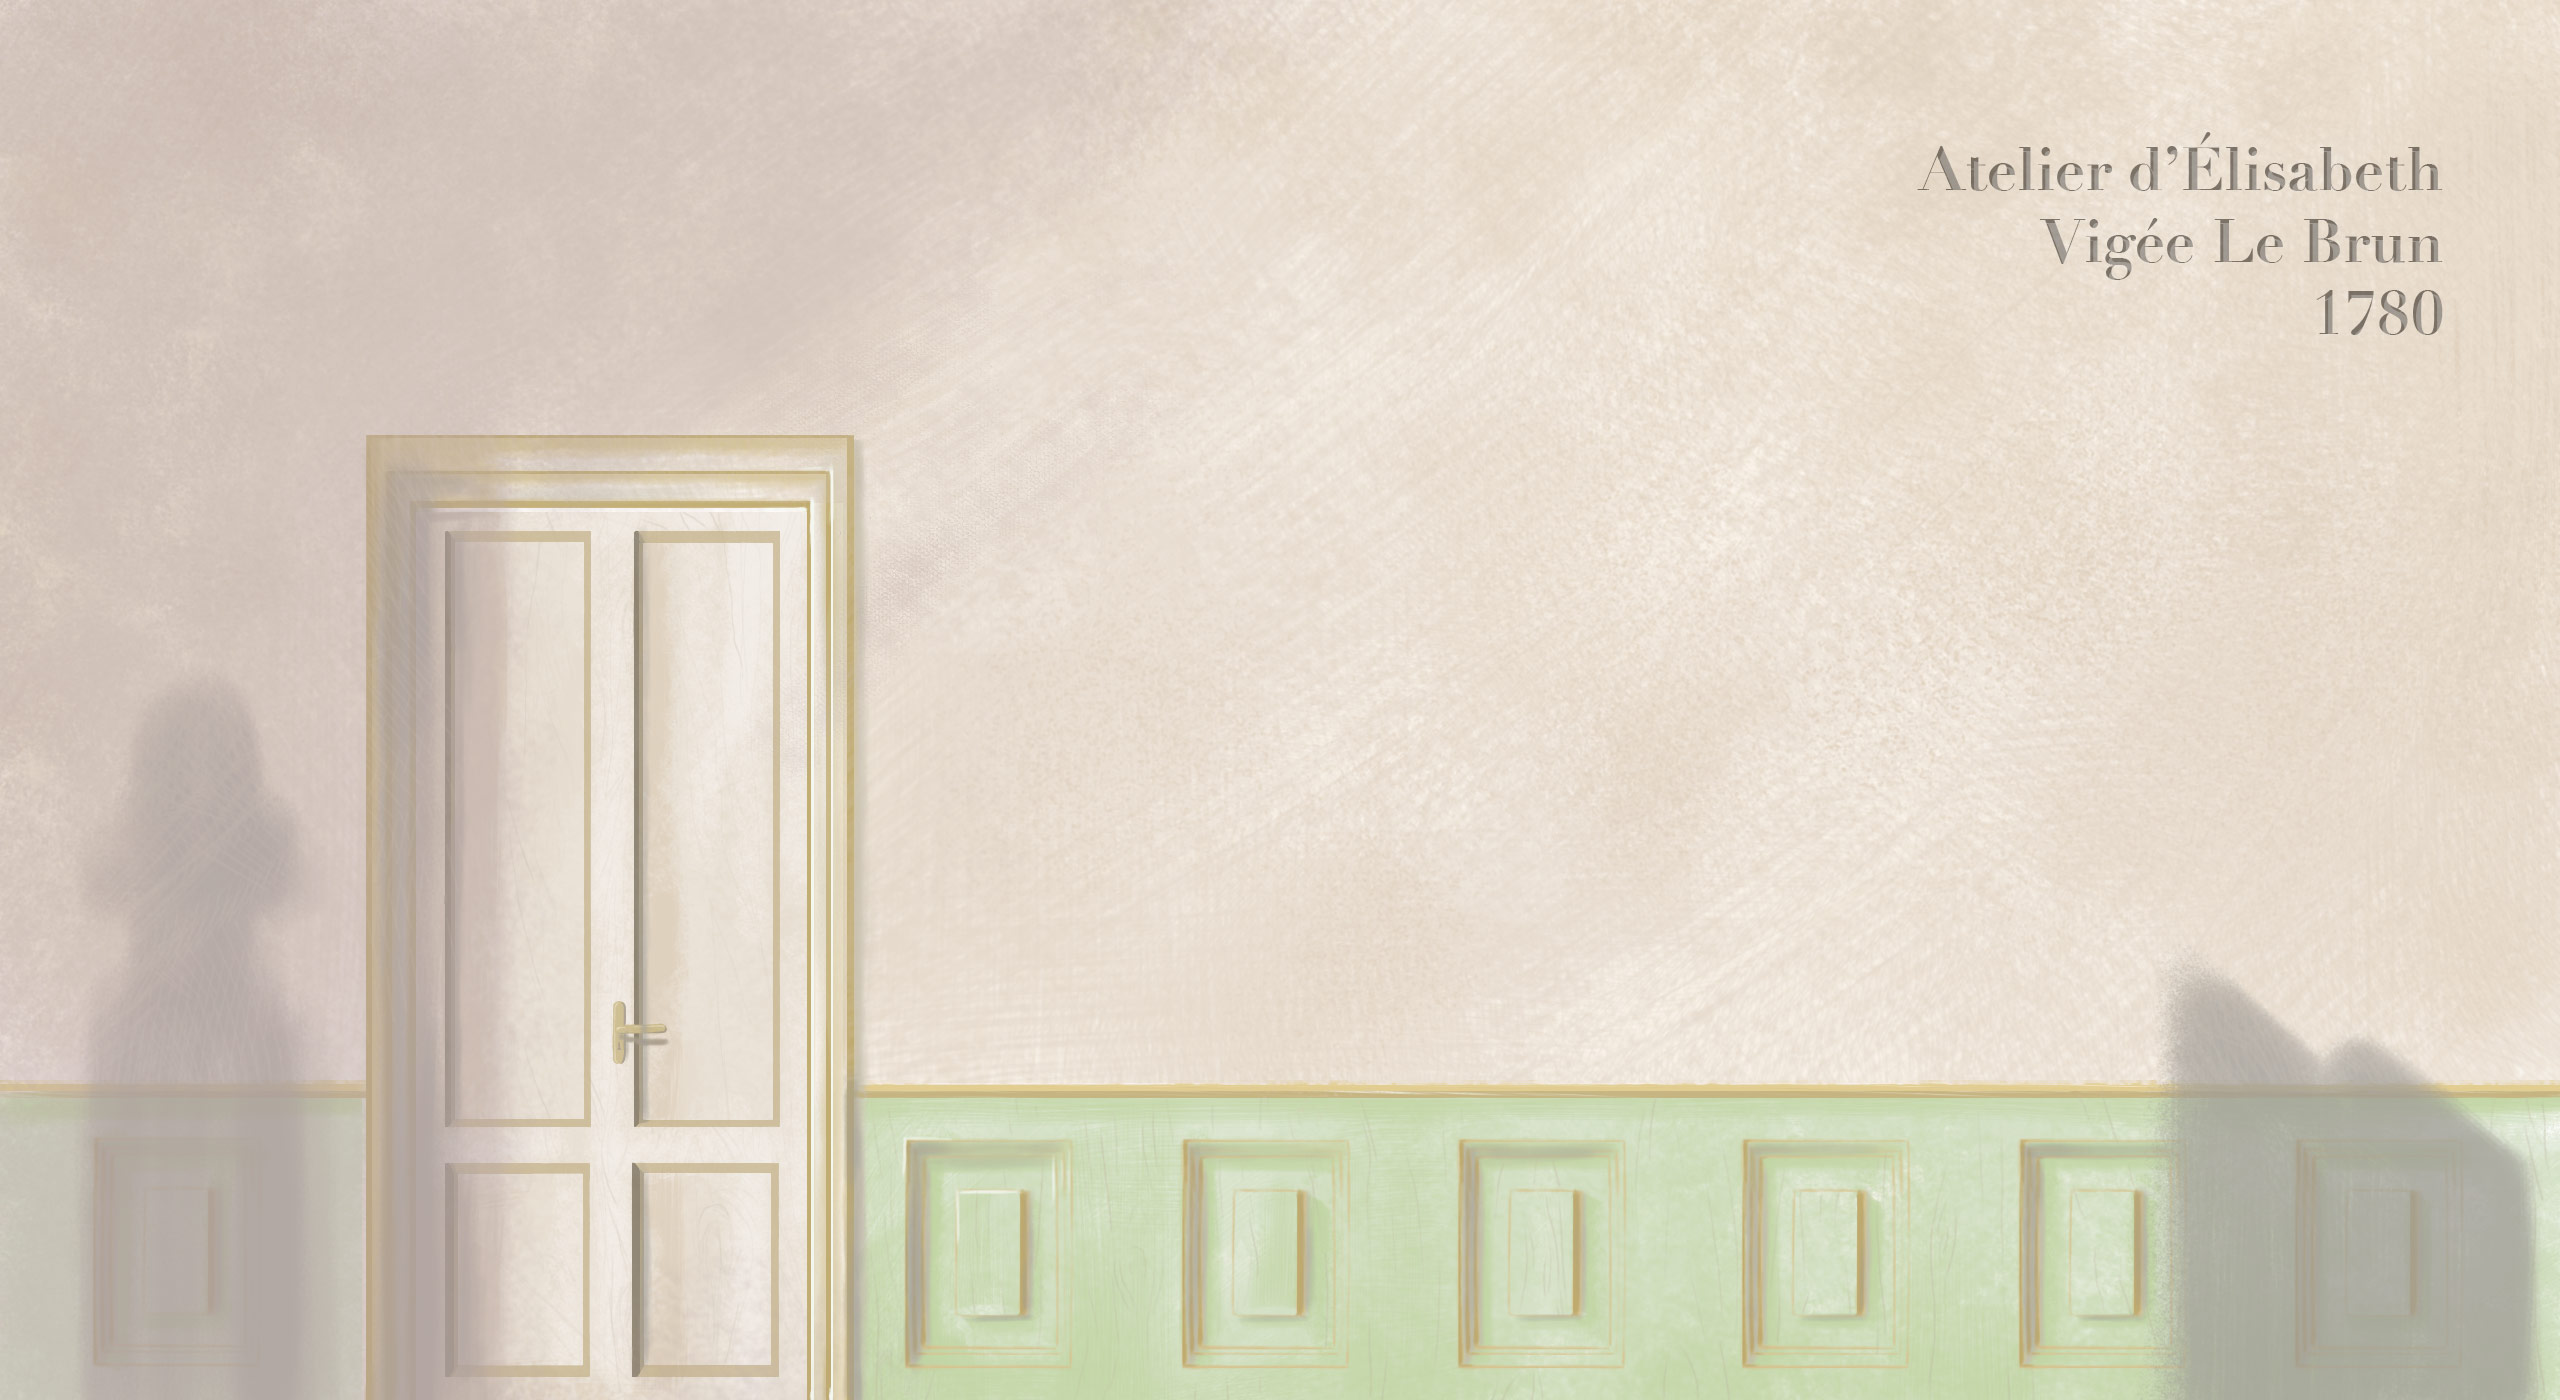
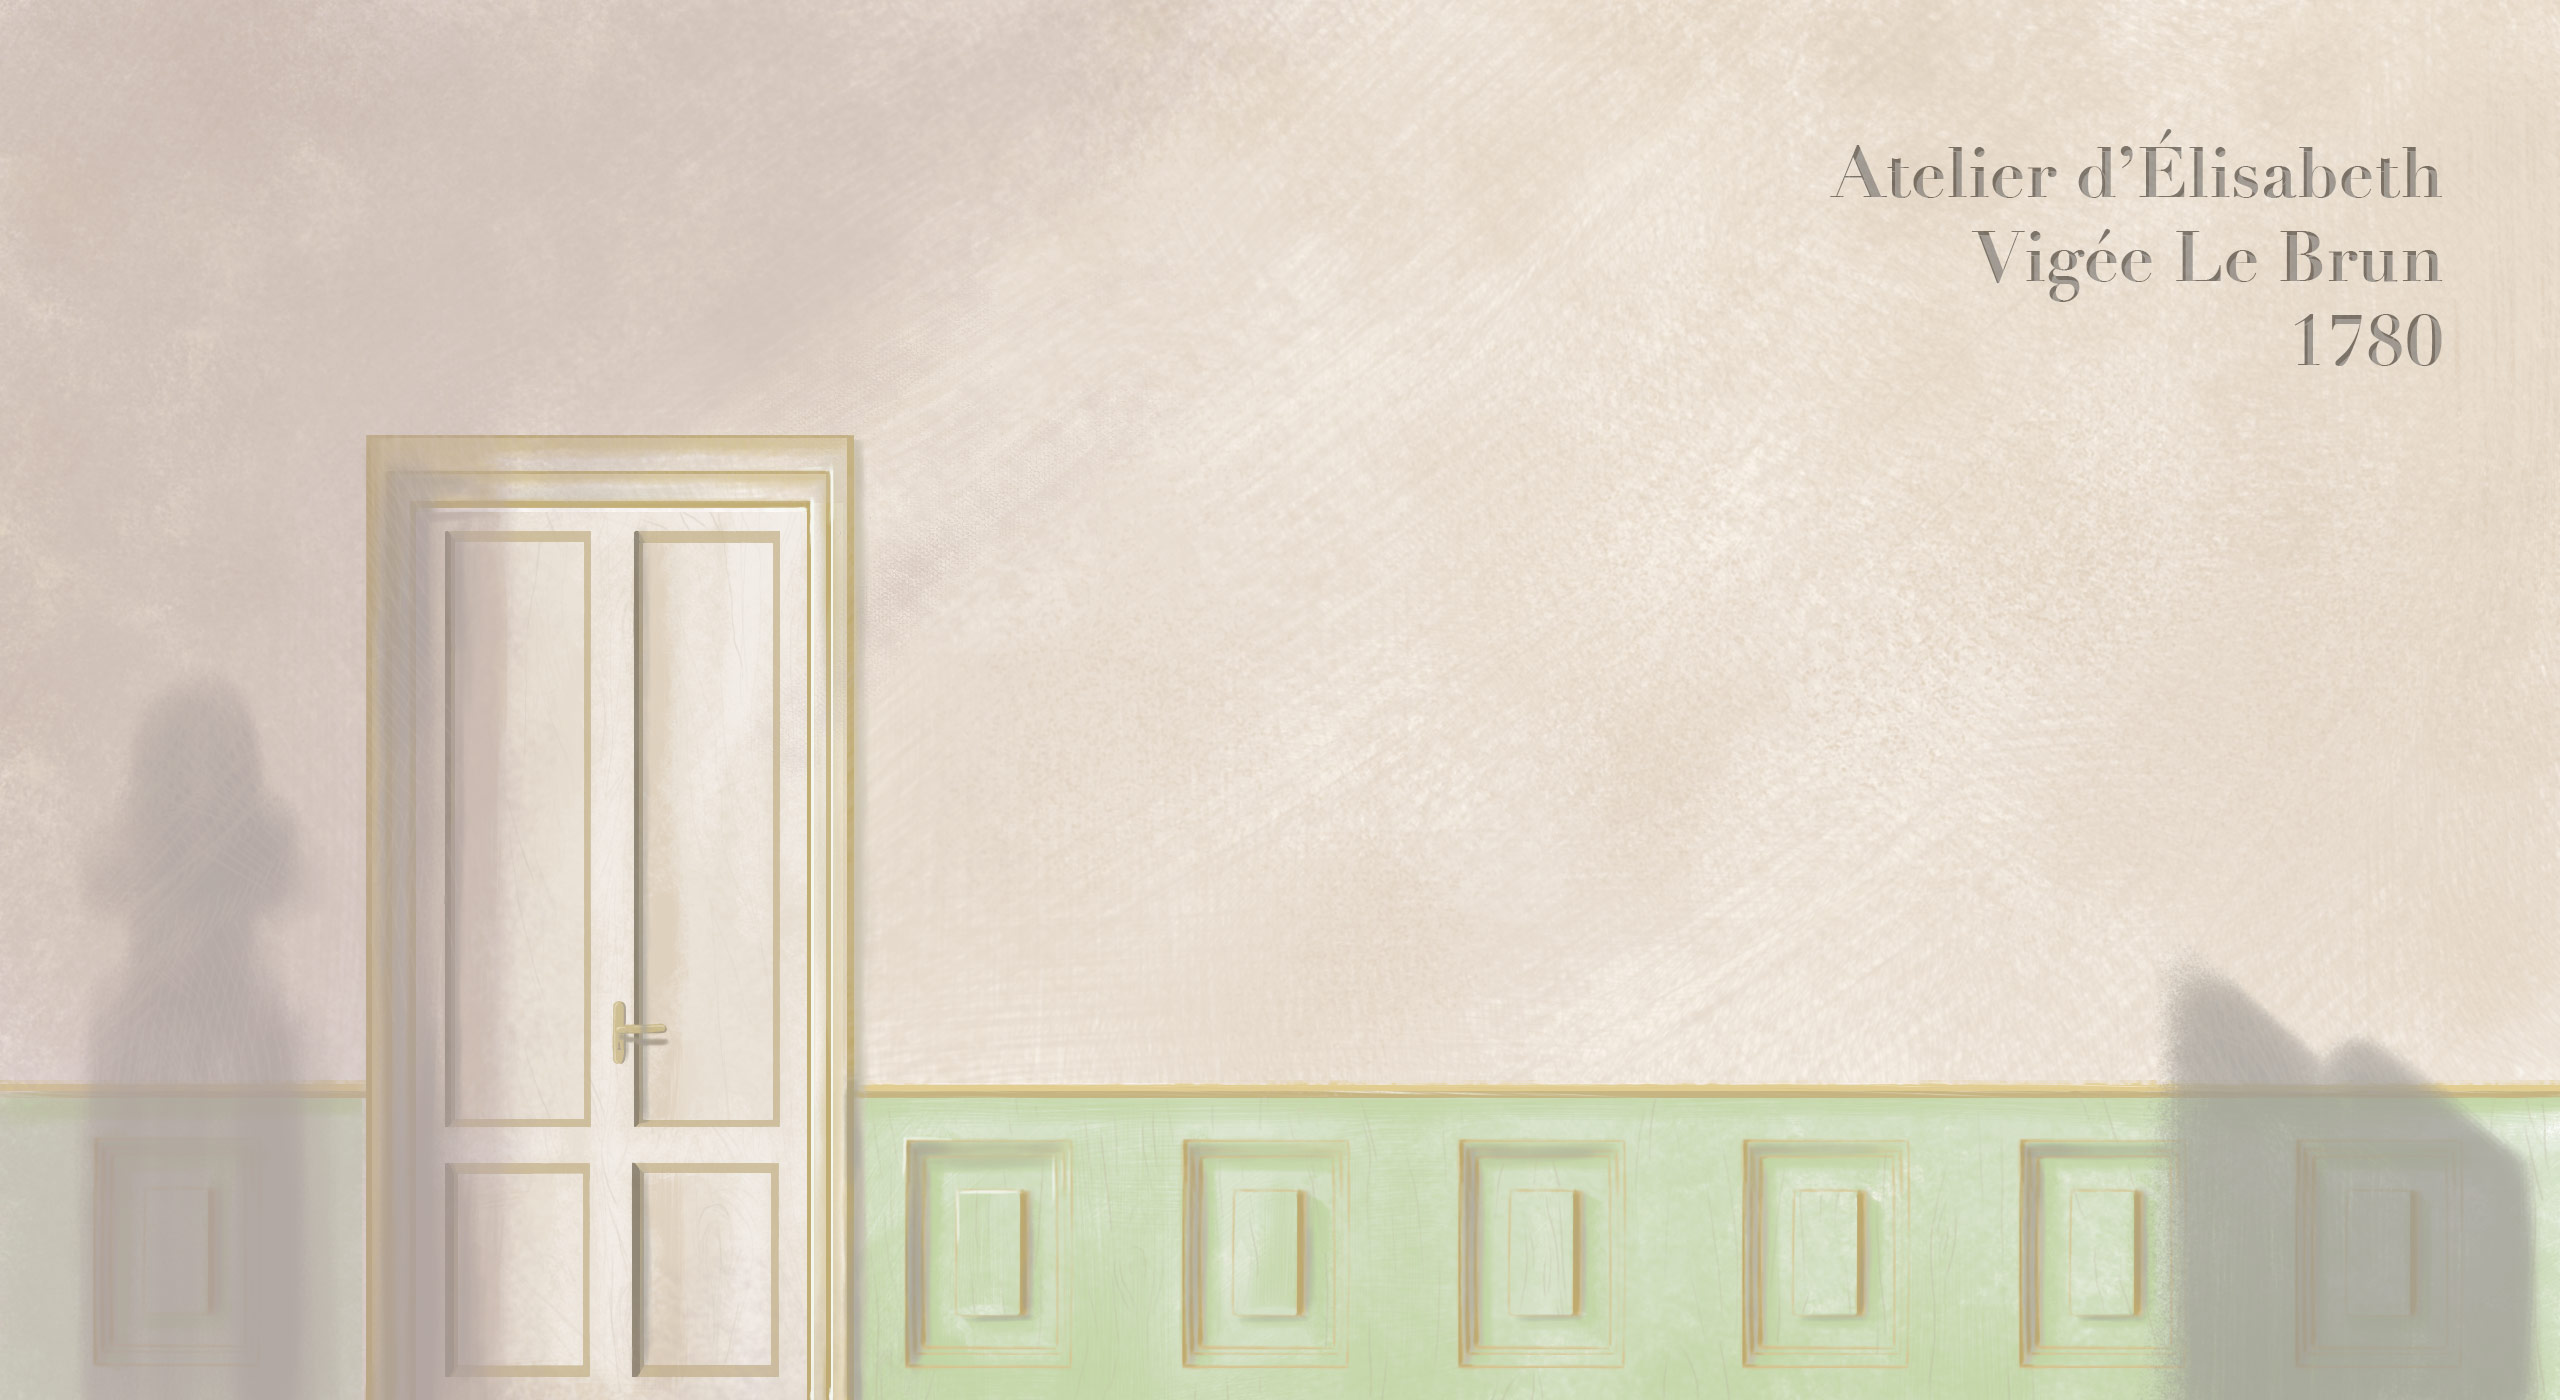
change front wall

Changed region(s): [[0.7188, 0.0921, 0.9688, 0.2764]]

diff --git a/src/setup.ts b/src/setup.ts
@@ -76,7 +76,7 @@ export default function Load() {
             jp_lebrun: 'room/Jean-Baptiste-Pierre_Le_Brun_1796.jpg', 
             jp_lebrun_sketch: 'room/cadre_droite_v01.jpg', 
 
-            front_wall_2: 'room2/mur_face_3.jpg',
+            front_wall_2: 'room2/mur_face_4.jpg',
             left_wall_2: 'room2/mur_gauche.jpg',
             right_wall_2: 'room2/mur_droite.jpg',
             floor_2: 'room2/sol.jpg',
@@ -122,7 +122,7 @@ function Setup(textures: { [name: string]: THREE.Texture }): { raf: Function; cb
             mesh.position.set(0, 0, -50)
             return mesh
         }, [new InteractiveShader()]),
-        new Room2(textures),
+        new Room(textures),
         new Component(() => new THREE.AmbientLight(0x999999, 0.7)),
     ]
 
